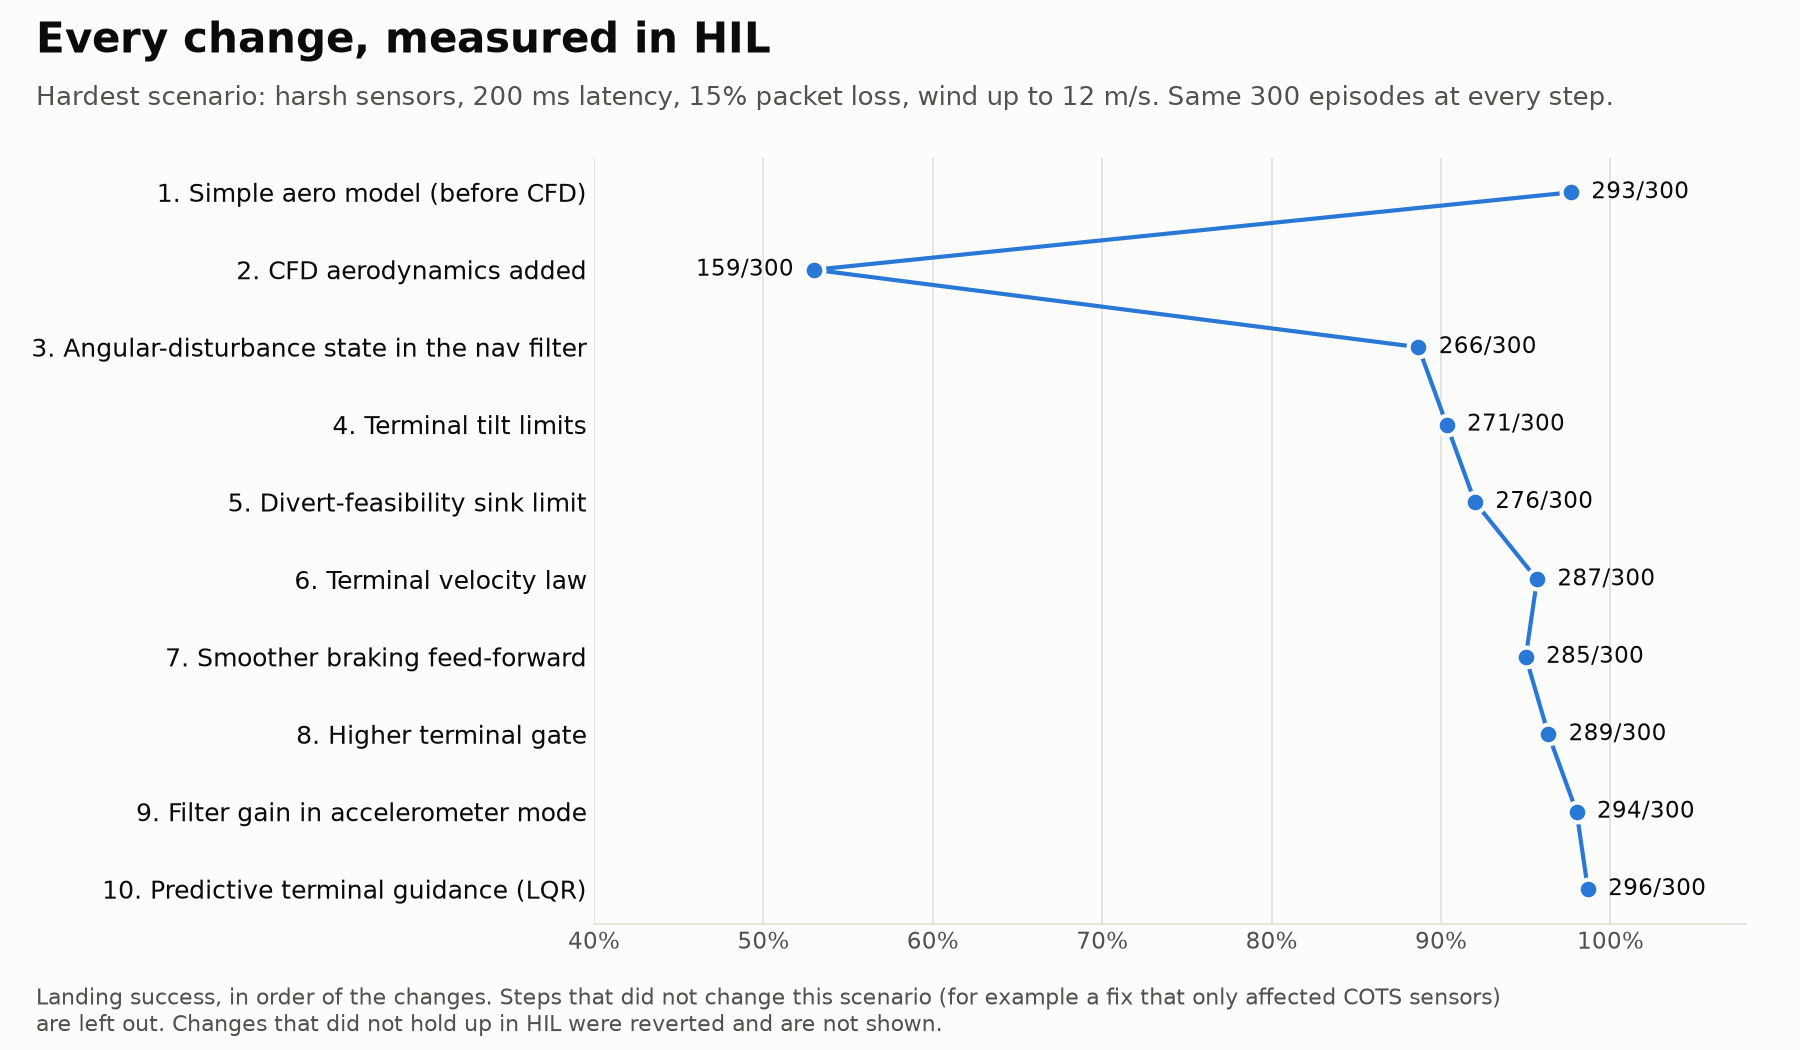
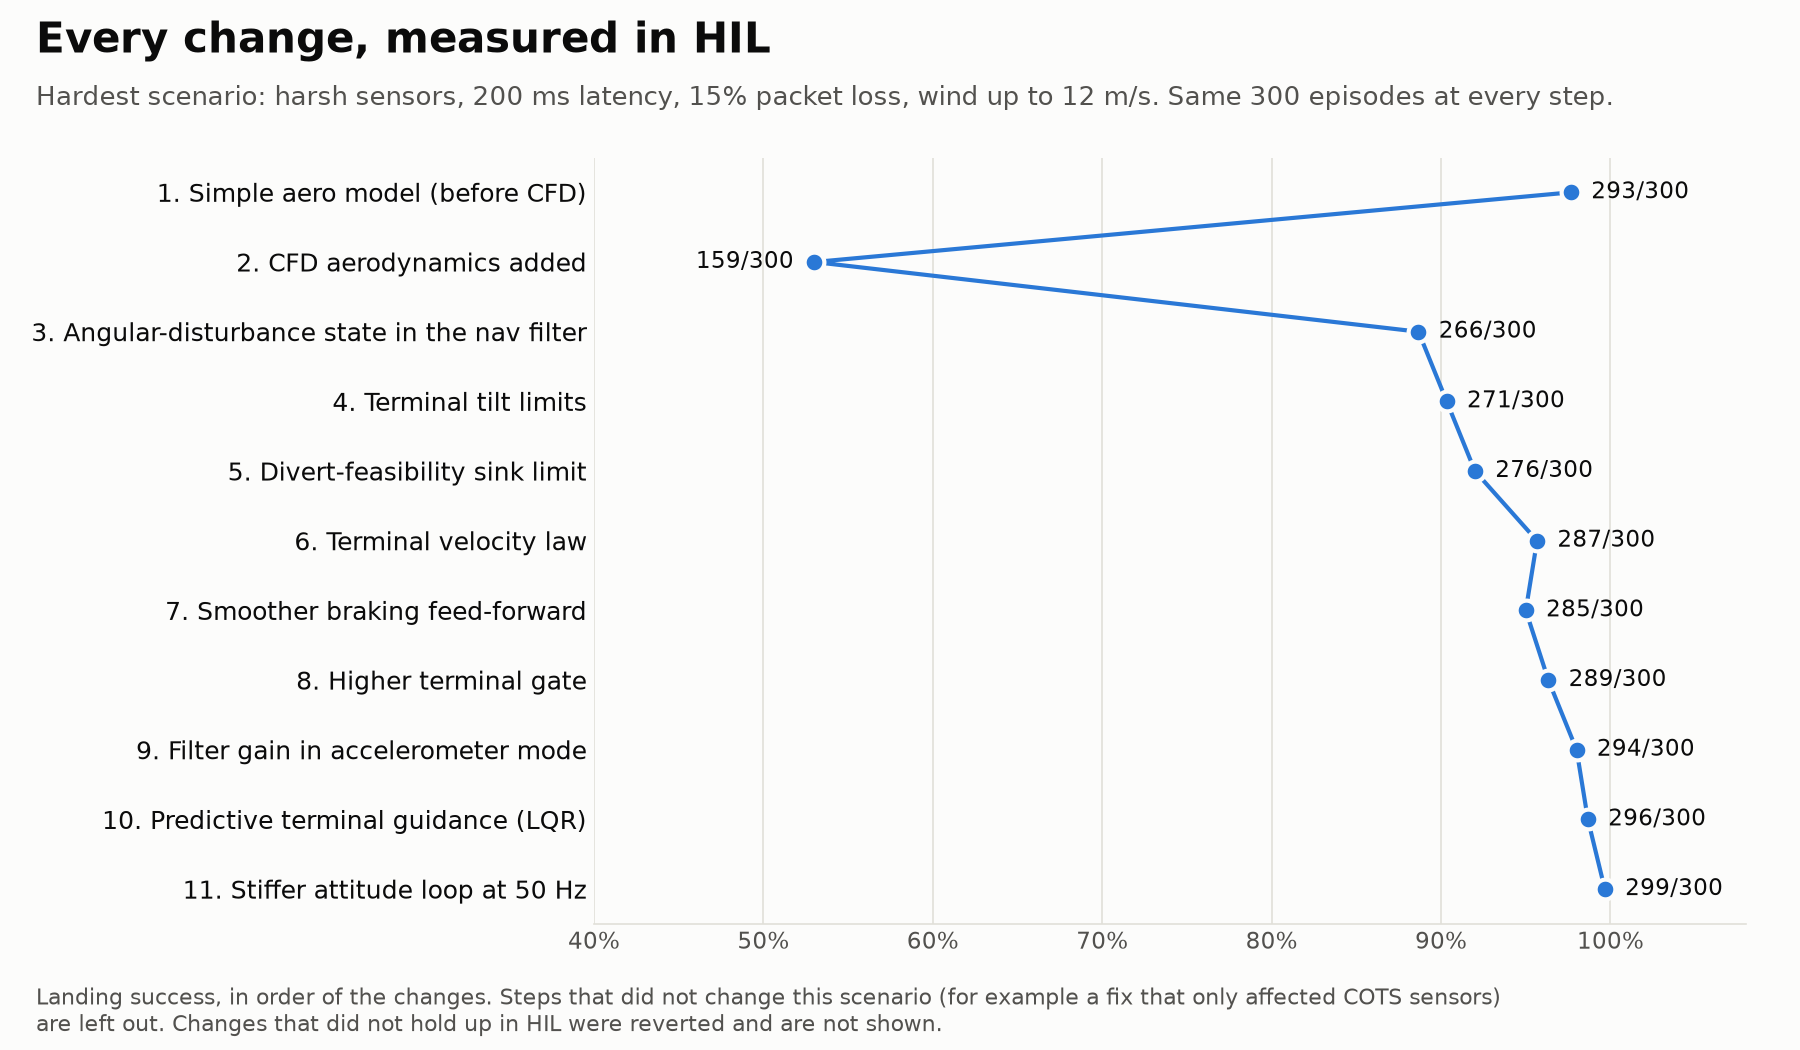
Stiffer 50 Hz attitude loop: hardest HIL scenario 99.7%, updated numbers and figures

diff --git a/index.html b/index.html
@@ -7,7 +7,7 @@
 <meta name="description" content="A digital twin of a small reusable rocket, built before the rocket: flight dynamics, CFD aerodynamics, structure, guidance and the real flight code in hardware-in-the-loop.">
 <meta property="og:type" content="article">
 <meta property="og:title" content="Hop-0 engineering log">
-<meta property="og:description" content="A digital twin of a small reusable rocket, built before the rocket. Hardest hardware-in-the-loop scenario: 53% to 98.7% landing success.">
+<meta property="og:description" content="A digital twin of a small reusable rocket, built before the rocket. Hardest hardware-in-the-loop scenario: 53% to 99.7% landing success.">
 <meta property="og:url" content="https://melihakbulut221.github.io/hop0-log/">
 <meta property="og:image" content="https://melihakbulut221.github.io/hop0-log/assets/og.png">
 <meta property="og:image:width" content="1200">
@@ -508,7 +508,7 @@
     <strong>1.9 m</strong>, <strong>200 kg</strong> vertical-landing hop vehicle whose physics, aerodynamics, structure and
     flight code all live in software first.</p>
   <p class="reveal">In the hardest hardware-in-the-loop scenario it now lands
-    <strong><span data-count-from="53" data-count-to="98.7">98.7%</span></strong> of the time, up from 53%, on the same
+    <strong><span data-count-from="53" data-count-to="99.7">99.7%</span></strong> of the time, up from 53%, on the same
     <strong>300</strong> random seeds.</p>
   <figure class="inset reveal">
     <img src="assets/cfd_flow_slices.png" alt="Grid of twelve CFD velocity-magnitude slices around the hull at angles of attack from 0 to 180 degrees, with and without legs.">
@@ -936,8 +936,8 @@
   <h2 class="display reveal">What each<br>flight costs</h2>
   <p class="sub reveal">The twin keeps a wear account. Every flight record is turned into damage for each part that wears
     out: the chamber's hot wall, the pump battery, the shocks, the honeycomb, the struts, the welded hull zones and the
-    gimbal actuators. The flights here are 600 hardware-in-the-loop flights of the current flight software in the
-    hardest scenario, so this is a cautious load spectrum.</p>
+    gimbal actuators. The flights here are 600 hardware-in-the-loop flights in the hardest scenario, flown by the
+    flight software one revision before its latest attitude-gain change, so this is a cautious load spectrum.</p>
   <div class="lgrid">
     <div class="lconsole reveal" id="life-console" aria-live="off">
       <div class="lc-top">
@@ -1070,7 +1070,9 @@
       <li>a descent-speed limit that keeps the divert feasible when drag is high;</li>
       <li>higher terminal-gate heights;</li>
       <li>a predictive terminal law: a finite-horizon LQR that models the attitude-loop lag and plans to null position
-        and velocity at touchdown.</li>
+        and velocity at touchdown;</li>
+      <li>a stiffer attitude loop at the 50 Hz flight rate, found by screening twelve candidates in the in-process HIL
+        emulator and then confirmed in HIL on every scenario.</li>
     </ul>
   </div>
 </div>
@@ -1127,9 +1129,9 @@
       <tbody>
         <tr><td>COTS sensors / + 5% sensor faults / + 15% packet loss</td><td class="num">100 / 100 / 100 of 100</td></tr>
         <tr><td>Harsh sensors / + 200 ms latency</td><td class="num">100 / 100 of 100</td></tr>
-        <tr><td>Harsh + 200 ms + 15% loss (two disjoint seed sets)</td><td class="num">296, 294 of 300</td></tr>
-        <tr><td>No radar, 1 Hz GNSS with 200 ms lag</td><td class="num">298 of 300</td></tr>
-        <tr><td>Worst aerodynamic-uncertainty corner (COTS / harsh)</td><td class="num">198 / 198 of 200</td></tr>
+        <tr><td>Harsh + 200 ms + 15% loss (two disjoint seed sets)</td><td class="num">299, 298 of 300</td></tr>
+        <tr><td>No radar, 1 Hz GNSS with 200 ms lag</td><td class="num">299 of 300</td></tr>
+        <tr><td>Worst aerodynamic-uncertainty corner, harsh + 200 ms (two disjoint seed sets)</td><td class="num">283, 291 of 300</td></tr>
       </tbody>
     </table>
     </div>
@@ -1143,7 +1145,7 @@
   <h2 class="reveal">Open problems</h2>
   <div class="body reveal">
     <ul>
-      <li>The worst aerodynamic-uncertainty corner (hull drag ×1.6, leg drag ×2) with 200 ms latency is still about 93%.
+      <li>The worst aerodynamic-uncertainty corner (hull drag ×1.6, leg drag ×2) with 200 ms latency is now about 96% (574 of 600), up from 94% with a higher attitude-loop gain.
         It is limited by latency rather than gains.</li>
       <li>Powered-descent aerodynamics, where the plume covers the base, is not modelled; the CFD descent axial force is
         an upper bound.</li>

diff --git a/assets/app.js b/assets/app.js
@@ -61,7 +61,7 @@
   var BA = [
     ["COTS sensors", 75, 100, 100], ["COTS + 5% sensor faults", 75, 100, 100], ["COTS + 15% packet loss", 72, 100, 100],
     ["Harsh sensors", 72, 100, 100], ["Harsh + 200 ms latency", 57, 100, 100],
-    ["Harsh + 200 ms + 15% loss", 159, 296, 300], ["No radar, 1 Hz GNSS", 192, 298, 300]
+    ["Harsh + 200 ms + 15% loss", 159, 299, 300], ["No radar, 1 Hz GNSS", 192, 299, 300]
   ];
   function beforeAfter(host) {
     var narrow = host.clientWidth < 560;      // phones: row label above its bar, real-size text
@@ -105,7 +105,7 @@
     ["Simple aero model (before CFD)", 293], ["CFD aerodynamics added", 159],
     ["Angular-disturbance state in the nav filter", 266], ["Terminal tilt limits", 271],
     ["Divert-feasibility sink limit", 276], ["Terminal velocity law", 287], ["Smoother braking feed-forward", 285],
-    ["Higher terminal gate", 289], ["Filter gain in accelerometer mode", 294], ["Predictive terminal guidance (LQR)", 296]
+    ["Higher terminal gate", 289], ["Filter gain in accelerometer mode", 294], ["Predictive terminal guidance (LQR)", 296], ["Stiffer attitude loop at 50 Hz", 299]
   ];
   function timeline(host) {
     var narrow = host.clientWidth < 560;
@@ -113,7 +113,7 @@
         left = narrow ? 34 : 300, right = narrow ? 70 : 70, H = top + rowH * TL.length + 30, dy = narrow ? 12 : 0;
     var svg = el("svg", { viewBox: "0 0 " + W + " " + H, role: "img", "aria-labelledby": "tl-title" }, host);
     el("title", { id: "tl-title" }, svg).textContent =
-      "Landings out of 300 in the hardest HIL scenario after each change: 293, 159, 266, 271, 276, 287, 285, 289, 294, 296.";
+      "Landings out of 300 in the hardest HIL scenario after each change: 293, 159, 266, 271, 276, 287, 285, 289, 294, 296, 299.";
     var x = function (p) { return left + (p - 40) / 60 * (W - left - right); };
     (narrow ? [40, 60, 80, 100] : [40, 50, 60, 70, 80, 90, 100]).forEach(function (t) {
       el("line", { x1: x(t), x2: x(t), y1: top - 6, y2: H - 26, class: "grid" }, svg);

diff --git a/make_figures.py b/make_figures.py
@@ -36,8 +36,8 @@ def before_after():
         ("COTS + 15% packet loss", 72, 100, 100),
         ("Harsh sensors", 72, 100, 100),
         ("Harsh + 200 ms latency", 57, 100, 100),
-        ("Harsh + 200 ms + 15% loss", 159, 296, 300),
-        ("No radar, 1 Hz GNSS", 192, 298, 300),
+        ("Harsh + 200 ms + 15% loss", 159, 299, 300),
+        ("No radar, 1 Hz GNSS", 192, 299, 300),
     ]
     fig, ax = plt.subplots(figsize=(12, 7.2), dpi=150)
     fig.patch.set_facecolor(SURFACE); ax.set_facecolor(SURFACE)
@@ -89,6 +89,7 @@ def hil_timeline():
         ("Higher terminal gate", 289),
         ("Filter gain in accelerometer mode", 294),
         ("Predictive terminal guidance (LQR)", 296),
+        ("Stiffer attitude loop at 50 Hz", 299),
     ]
     fig, ax = plt.subplots(figsize=(12, 7.0), dpi=150)
     fig.patch.set_facecolor(SURFACE); ax.set_facecolor(SURFACE)
@@ -144,7 +145,7 @@ def og_image():
     fig.text(0.05, 0.69, "engineering log", fontsize=26, color=fg2)
     fig.text(0.05, 0.47, "A small reusable-rocket testbed,\nbuilt in simulation first", fontsize=20, color=fg,
              linespacing=1.35)
-    fig.text(0.05, 0.30, "Hardest HIL scenario: 53% → 98.7%", fontsize=18, color=trail, fontweight="bold")
+    fig.text(0.05, 0.30, "Hardest HIL scenario: 53% → 99.7%", fontsize=18, color=trail, fontweight="bold")
     fig.text(0.05, 0.205, "landings on the same seeds, before and after the filter\nand guidance work", fontsize=14, color=fg2)
     fig.text(0.05, 0.07, "18 replayed landings from the flight software; simulation only", fontsize=11, color=fg2)
     fig.savefig(os.path.join(OUT, "og.png"), facecolor=bg)
